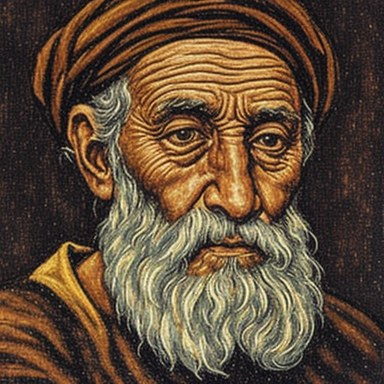
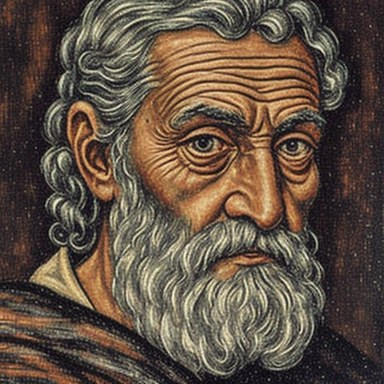
PORTRE SİSTEMİ: 7 yaş bandı (kullanıcı referansı) — yüz yaşa gerçekten uyuyor
ÇOCUK(7-12)/ERGEN(13-17)/GENÇ(18-24)/YETİŞKİN(25-32)/OLGUN(33-45)/YAŞLI(46-59)/
İHTİYAR(60-75) × erkek/kız × 2 varyant = 28 portre (yerel SD-Turbo, yaşa özel
prompt'larla). Eski 3-bant (genç/orta/yaşlı) kaldırıldı. portreYolu yeni banta
göre yazıldı (yasKusak helper). components/NPCList (Kasaba) da portreye geçti.
Artık 9 yaşındaki çocuk çocuk, 68 yaşındaki ihtiyar gibi görünüyor. Görsel doğrulandı.

https://claude.ai/code/session_012fj1jbjzoRpMk3eBHFirVJ

diff --git a/frontend/src/components/NPCList.jsx b/frontend/src/components/NPCList.jsx
@@ -16,6 +16,14 @@ import {
   Users, Heart, Baby, ChevronLeft, ChevronRight,
   Sword, Star, Skull, Briefcase, MapPin,
 } from "lucide-react";
+import { Portre } from "@/components/ui/Gorsel";
+
+// Yaş/cinsiyete göre emoji (portre yüklenemezse zarif geri dönüş)
+function npcEmoji(npc) {
+  const age = npc.age || 30;
+  if (npc.gender === "kadın") return age >= 55 ? "👵" : age < 13 ? "👧" : "👩";
+  return age >= 55 ? "🧓" : age < 13 ? "👦" : "🧔";
+}
 
 // ─── Constants ──────────────────────────────────────────────────────────────
 
@@ -96,11 +104,9 @@ function NPCRow({ npc }) {
       to={`/oyun/npc/${npc.id}`}
       className="card-frame px-3 py-2.5 flex items-center gap-3 hover:bg-stone-900/70 transition-colors group"
     >
-      {/* Avatar placeholder */}
-      <div className="shrink-0 w-8 h-8 rounded-sm border border-stone-700/70 bg-stone-900
-                      flex items-center justify-center group-hover:border-stone-600 transition-colors">
-        <Users className="w-3.5 h-3.5 text-stone-600" />
-      </div>
+      {/* Gerçek portre (yoksa emoji) */}
+      <Portre age={npc.age} gender={npc.gender} id={npc.id}
+              emoji={npcEmoji(npc)} size="2.1rem" ring={false} />
 
       {/* Main info */}
       <div className="flex-1 min-w-0">

diff --git a/frontend/src/components/ui/Gorsel.jsx b/frontend/src/components/ui/Gorsel.jsx
@@ -20,13 +20,25 @@ export function useGorselVar(src) {
   return var_;
 }
 
+/** Yaş bandı (kullanıcı referansı: 7 kuşak) — yüz yaşa gerçekten uysun. */
+export function yasKusak(age) {
+  const a = age || 0;
+  if (a <= 12) return "cocuk";     // 7-12
+  if (a <= 17) return "ergen";     // 13-17
+  if (a <= 24) return "genc";      // 18-24 (genç yetişkin)
+  if (a <= 32) return "yetiskin";  // 25-32
+  if (a <= 45) return "olgun";     // 33-45
+  if (a <= 59) return "yasli";     // 46-59
+  return "ihtiyar";                // 60-75
+}
+
 /** Yaş/cinsiyetten portre yolu — varyant NPC kimliğinden deterministik. */
 export function portreYolu(age, gender, id = "") {
-  const kusak = age < 30 ? "genc" : age < 55 ? "orta" : "yasli";
+  const kusak = yasKusak(age);
   const cins = gender === "kadın" ? "k" : "e";
   let h = 0;
   for (const ch of String(id)) h = (h * 31 + ch.charCodeAt(0)) >>> 0;
-  return `/images/portre/${cins}_${kusak}_${(h % 3) + 1}.jpg`;
+  return `/images/portre/${cins}_${kusak}_${(h % 2) + 1}.jpg`;
 }
 
 /** Dairesel portre: resim varsa resim, yoksa emoji. */
